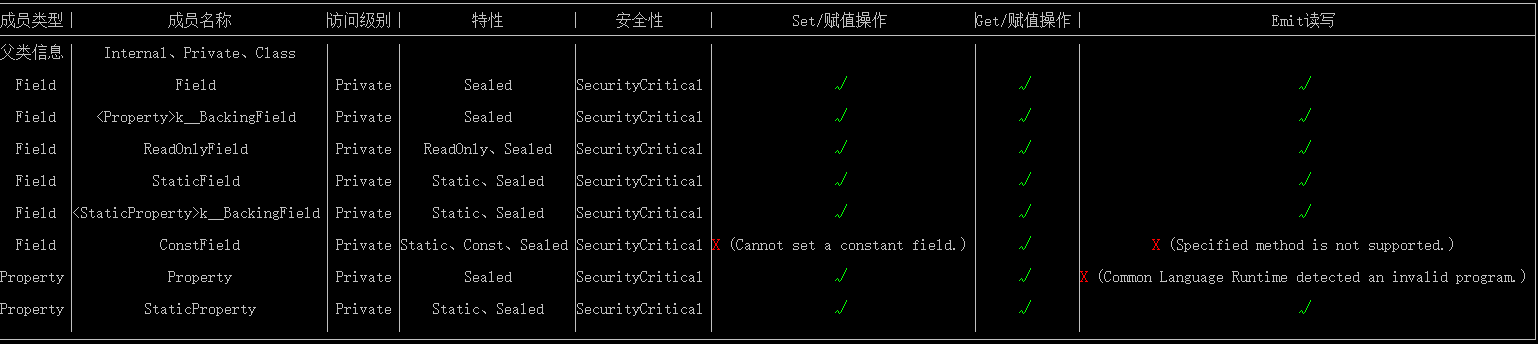
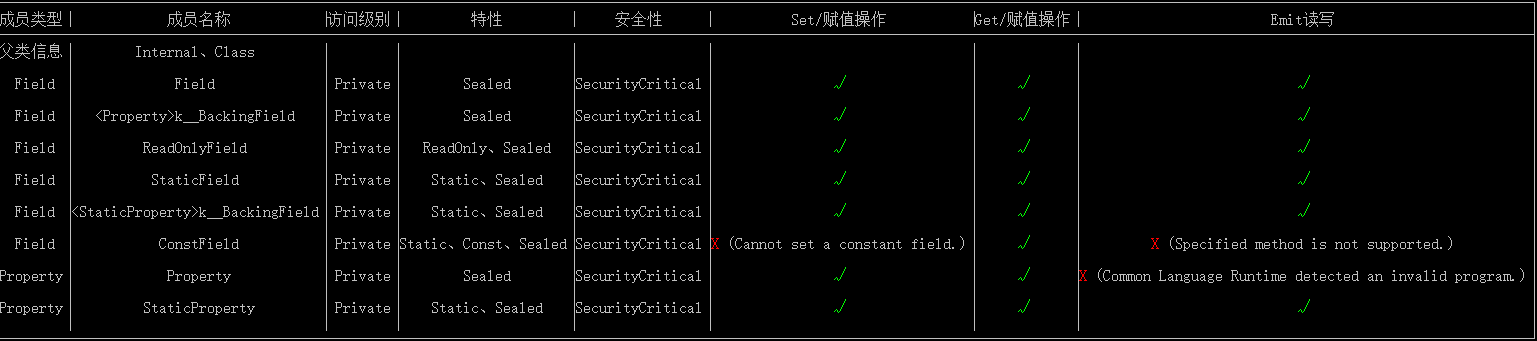
定义类型解析结果修复

diff --git a/analysis/Natasha.Reflection/Reportor/FeasibilityHandler.cs b/analysis/Natasha.Reflection/Reportor/FeasibilityHandler.cs
@@ -57,8 +57,6 @@ namespace Natasha.Reflection.Reportor
 
             ResultRecoder.Append(tempType.IsPublic ? "Public、" : "");
 
-            ResultRecoder.Append(tempType.IsNotPublic ? "Private、" : "");
-
             ResultRecoder.Append(tempType.IsSealed ? "Sealed、" : "");
 
             ResultRecoder.Append(tempType.IsNested ? "Nested Public、" : "");
